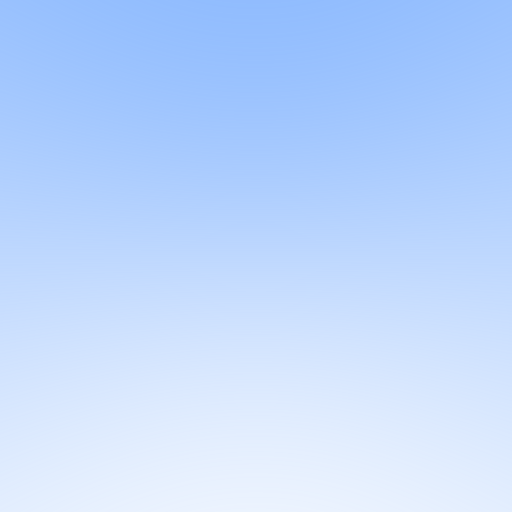
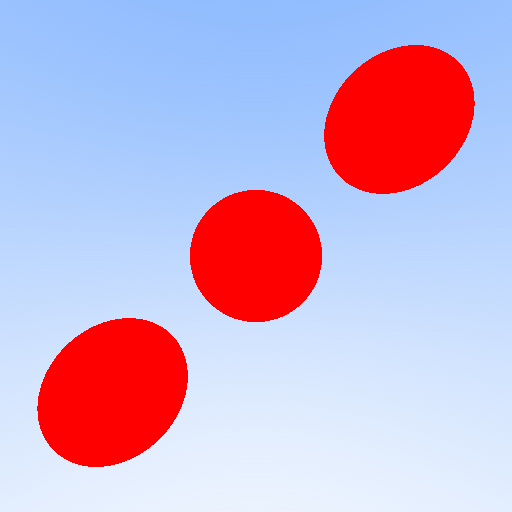
render basic spheres

Changed region(s): [[0.625, 0.0625, 0.9375, 0.375], [0.0625, 0.625, 0.375, 0.9375], [0.375, 0.375, 0.625, 0.625]]

diff --git a/src/rt/renderer/renderer.cc b/src/rt/renderer/renderer.cc
@@ -1,11 +1,15 @@
 #include "renderer.hh"
 
+#include <iostream>
+
 #include "ray.hh"
 
 namespace rt {
 
 Image Renderer::Render(const Scene& scene) {
   auto camera = scene.camera();
+  auto surfaces = scene.surfaces();
+
   Image image{camera->width(), camera->height(), scene.background()};
 
   auto aspect_ratio = static_cast<double>(camera->height()) /
@@ -38,6 +42,12 @@ Image Renderer::Render(const Scene& scene) {
       auto a = 0.5 * (ray.direction.y + 1.0);
       auto c = (1.0 - a) * Color{1.0, 1.0, 1.0} + a * Color{0.5, 0.7, 1.0};
       image[{x, y}] = c;
+
+      for (auto& s : surfaces) {
+        if (s->DoesHit(ray)) {
+          image[{x, y}] = Color{1.0, 0.0, 0.0};
+        }
+      }
     }
   }
 

diff --git a/src/rt/theater/surfaces/sphere.cc b/src/rt/theater/surfaces/sphere.cc
@@ -22,6 +22,15 @@ Sphere& Sphere::SetRadius(double value) noexcept {
   return *this;
 }
 
+bool Sphere::DoesHit(const Ray& ray) const {
+  auto oc = ray.origin - position_;
+  auto a = ray.direction.Dot(ray.direction);
+  auto b = 2.0 * oc.Dot(ray.direction);
+  auto c = oc.Dot(oc) - radius_ * radius_;
+  auto disc = b * b - 4 * a * c;
+  return disc >= 0;
+}
+
 std::string Sphere::ToString() const {
   std::string str = "Sphere\n";
   str += std::format("  position = {}\n", position_.ToString());

diff --git a/src/rt/theater/scene.cc b/src/rt/theater/scene.cc
@@ -16,6 +16,10 @@ const Camera* Scene::camera() const noexcept {
   return camera_.get();
 }
 
+std::span<const std::unique_ptr<Surface>> Scene::surfaces() const noexcept {
+  return surfaces_;
+}
+
 Scene& Scene::SetBackground(const Color& color) noexcept {
   background_ = color;
   return *this;
